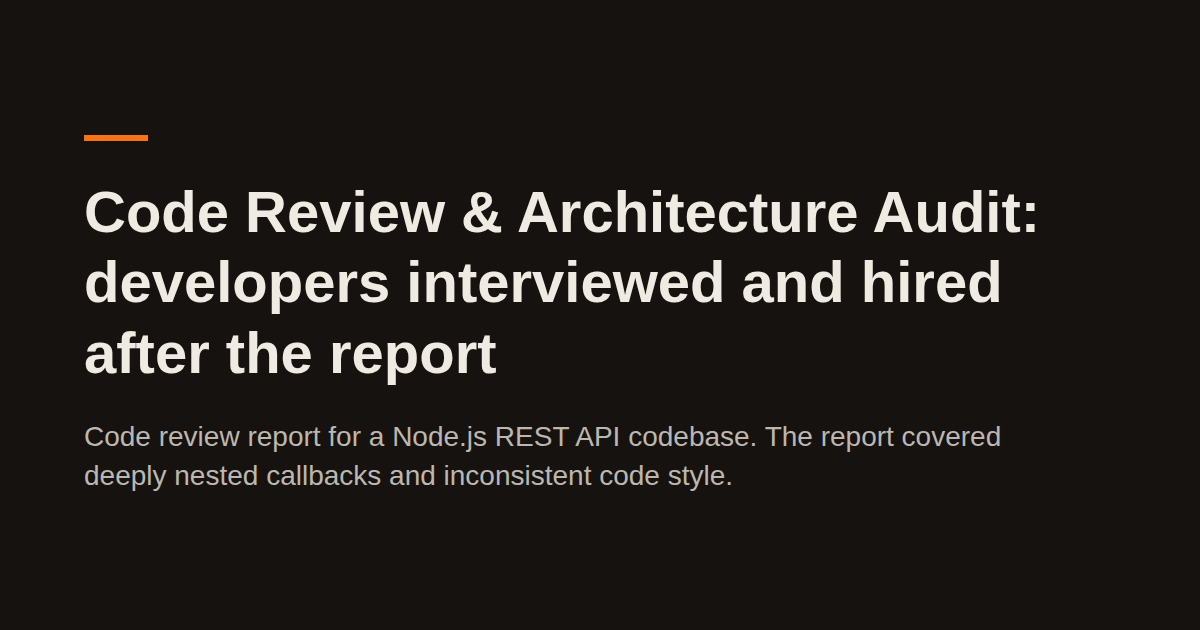
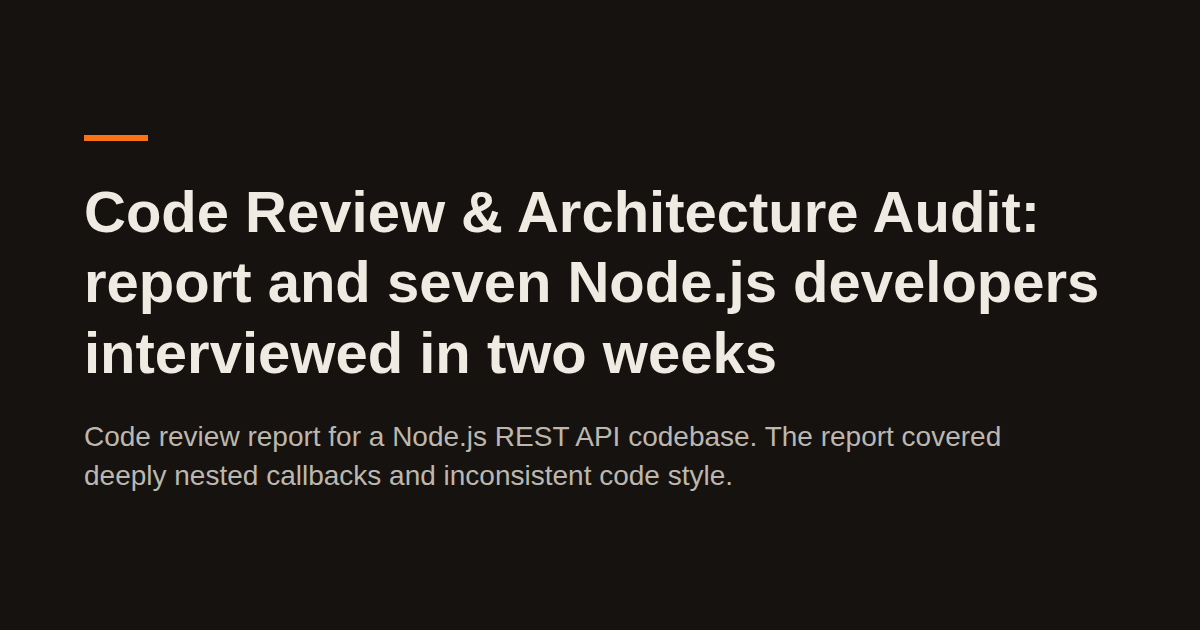
fix(work): Code Review's kind line names the report
The line said developers were hired after the report; the description says seven were interviewed and one was hired.

Changed region(s): [[0.0617, 0.3921, 0.925, 0.6032], [0.0617, 0.5127, 0.1233, 0.6032]]

diff --git a/lib/data.ts b/lib/data.ts
@@ -495,7 +495,7 @@ export const projects = {
     {
       title: "Code Review & Architecture Audit",
       slug: "code-review",
-      kind: "developers interviewed and hired after the report",
+      kind: "report and seven Node.js developers interviewed in two weeks",
       heroSize: { width: 1600, height: 1090 },
       catalogSlug: "codebase-health-audit",
       externalURL: "https://spy4x.github.io/pb-code-review",
